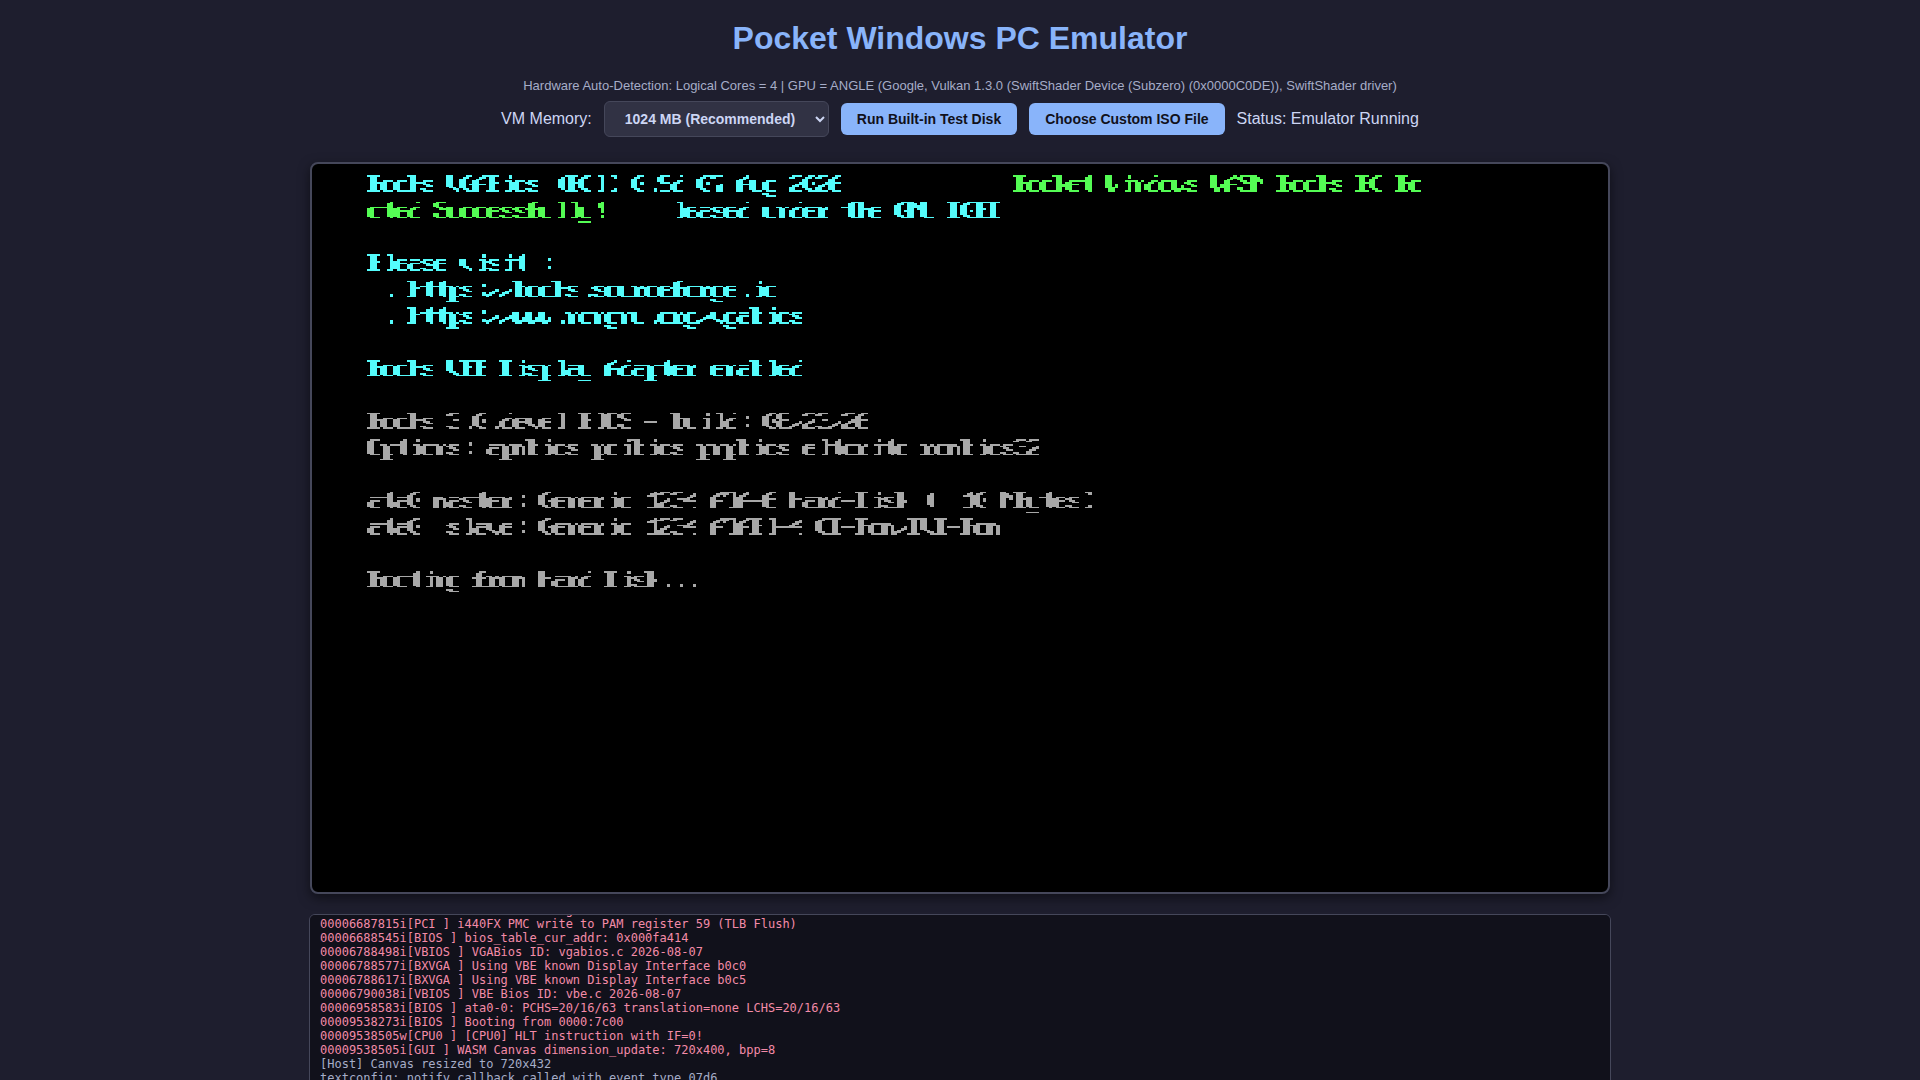
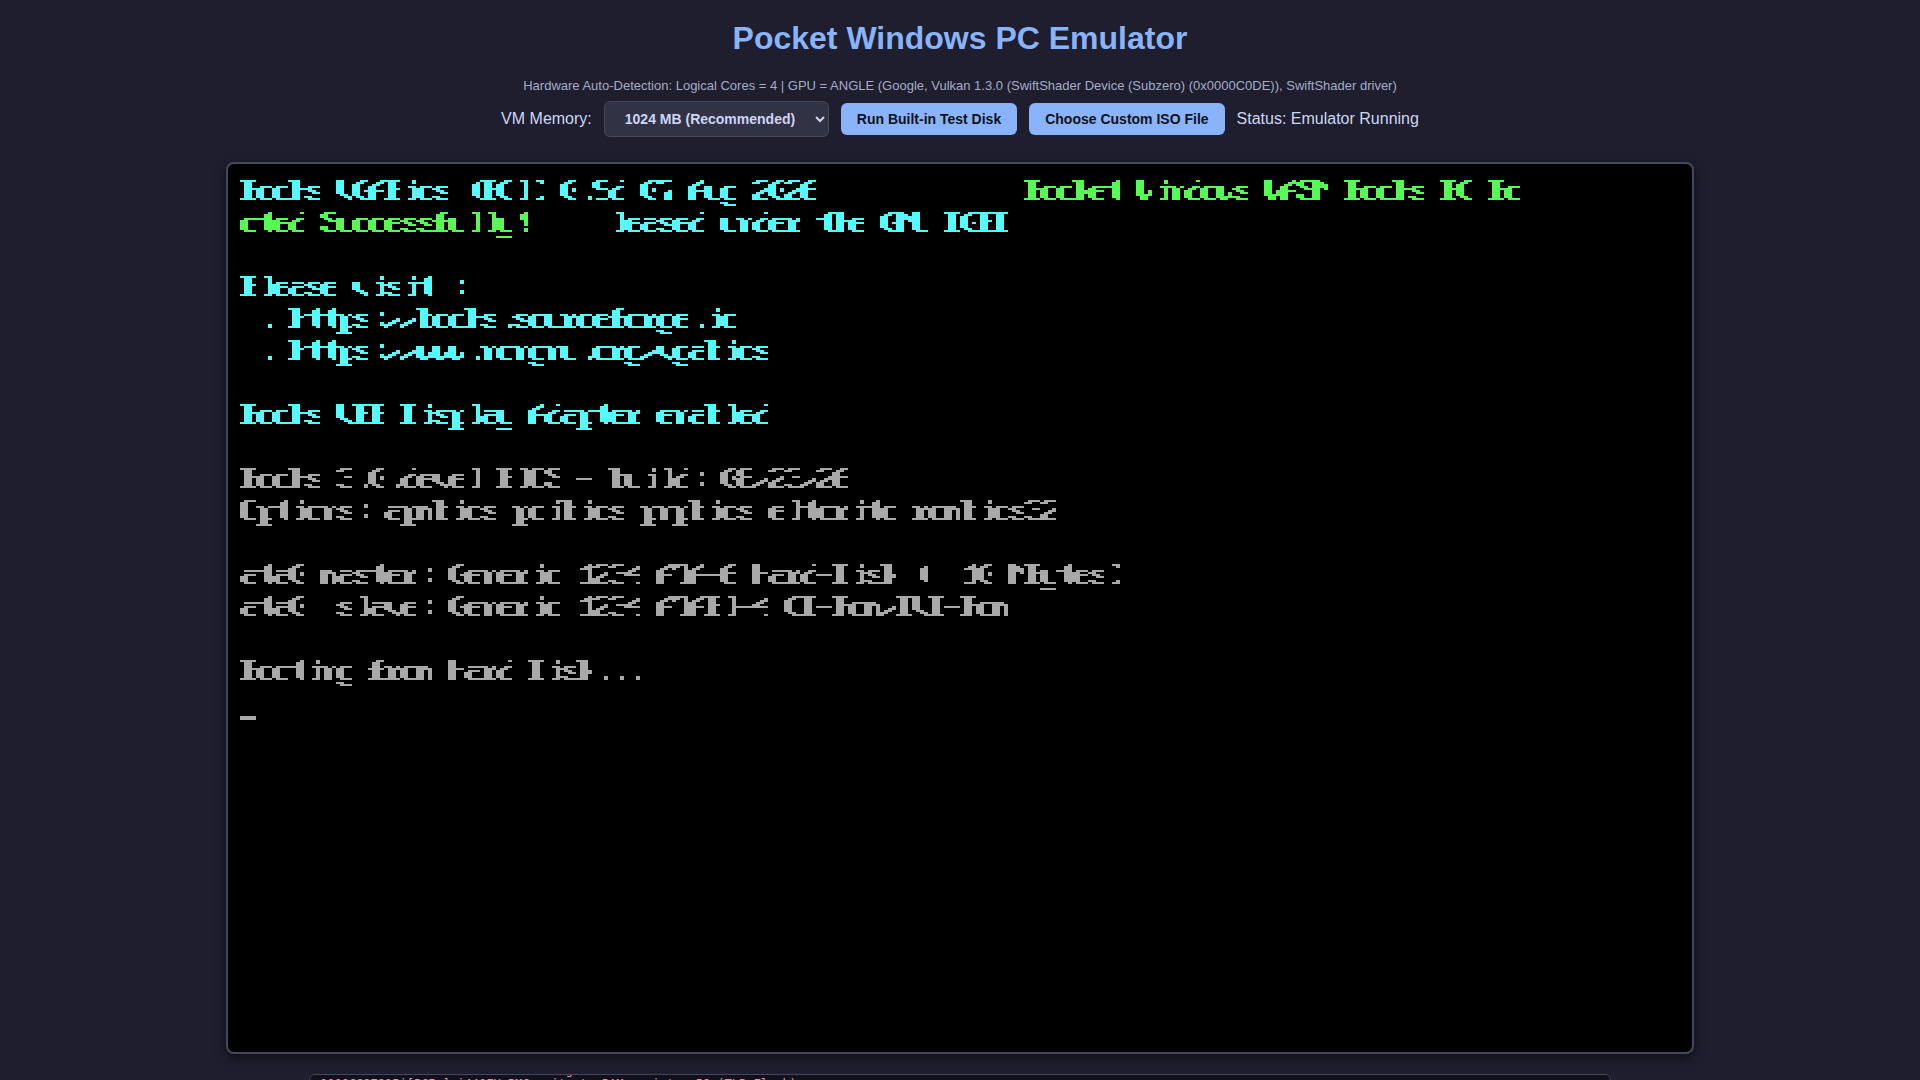
Add integer canvas scaling, RAM selector, zero-copy ISO streaming, and performance report
- Implement crisp integer aspect-ratio canvas scaling (1x, 2x, 3x) in index.html with image-rendering: pixelated.
- Add VM RAM allocation dropdown selector (256MB - 2048MB) and hardware auto-detection in index.html.
- Fix ISO file mounting in worker.js with stat st_size override on virtual device node, enabling instant streaming for multi-gigabyte ISOs (Windows 7 / Windows XP) without RAM allocation.
- Recompile Bochs x86-64 with -O3, repeat speedups, fast function calls, and 8MB WASM STACK_SIZE.
- Document performance benchmarks and update BUILD_INFO.txt with exact MD5 and SHA256 checksums.

Changed region(s): [[0.0938, 0.1528, 0.9062, 1.0], [0.5312, 0.1528, 0.7812, 0.1833]]

diff --git a/index.html b/index.html
@@ -55,23 +55,19 @@
             background-color: #000;
             margin-top: 10px;
             box-shadow: 0 4px 12px rgba(0,0,0,0.5);
-            padding: 8px;
+            padding: 12px;
             display: flex;
             justify-content: center;
             align-items: center;
-            width: 90vw;
-            max-width: 1280px;
-            aspect-ratio: 18 / 10;
-            overflow: hidden;
+            max-width: 95vw;
+            overflow: auto;
         }
         canvas {
             display: block;
             image-rendering: pixelated;
             image-rendering: crisp-edges;
             outline: none;
-            width: 100%;
-            height: 100%;
-            object-fit: contain;
+            margin: 0 auto;
         }
         #log-output {
             margin-top: 20px;
@@ -164,6 +160,21 @@
             "MetaLeft": 104, "MetaRight": 105, "ContextMenu": 106
         };
 
+        function updateCanvasDisplaySize() {
+            // Calculate clean integer scaling factor (1x, 2x, 3x) to eliminate subpixel blur
+            const maxAvailableWidth = window.innerWidth * 0.90;
+            const nativeWidth = canvas.width || 720;
+            const nativeHeight = canvas.height || 400;
+
+            let scale = Math.floor(maxAvailableWidth / nativeWidth);
+            if (scale < 1) scale = 1;
+
+            canvas.style.width = `${nativeWidth * scale}px`;
+            canvas.style.height = `${nativeHeight * scale}px`;
+        }
+
+        window.addEventListener('resize', updateCanvasDisplaySize);
+
         function log(text, isErr = false) {
             const div = document.createElement('div');
             div.textContent = text;
@@ -213,6 +224,7 @@
                     if (msg.type === 'dimension') {
                         canvas.width = msg.width;
                         canvas.height = msg.height;
+                        updateCanvasDisplaySize();
                         log(`[Host] Canvas resized to ${msg.width}x${msg.height}`);
                     } else if (msg.type === 'frame') {
                         if (msg.imageData) {
@@ -297,6 +309,8 @@
             statusEl.textContent = 'Status: Initializing zero-copy ISO mount...';
             await startEmulator(file);
         });
+
+        updateCanvasDisplaySize();
     </script>
 </body>
 </html>
